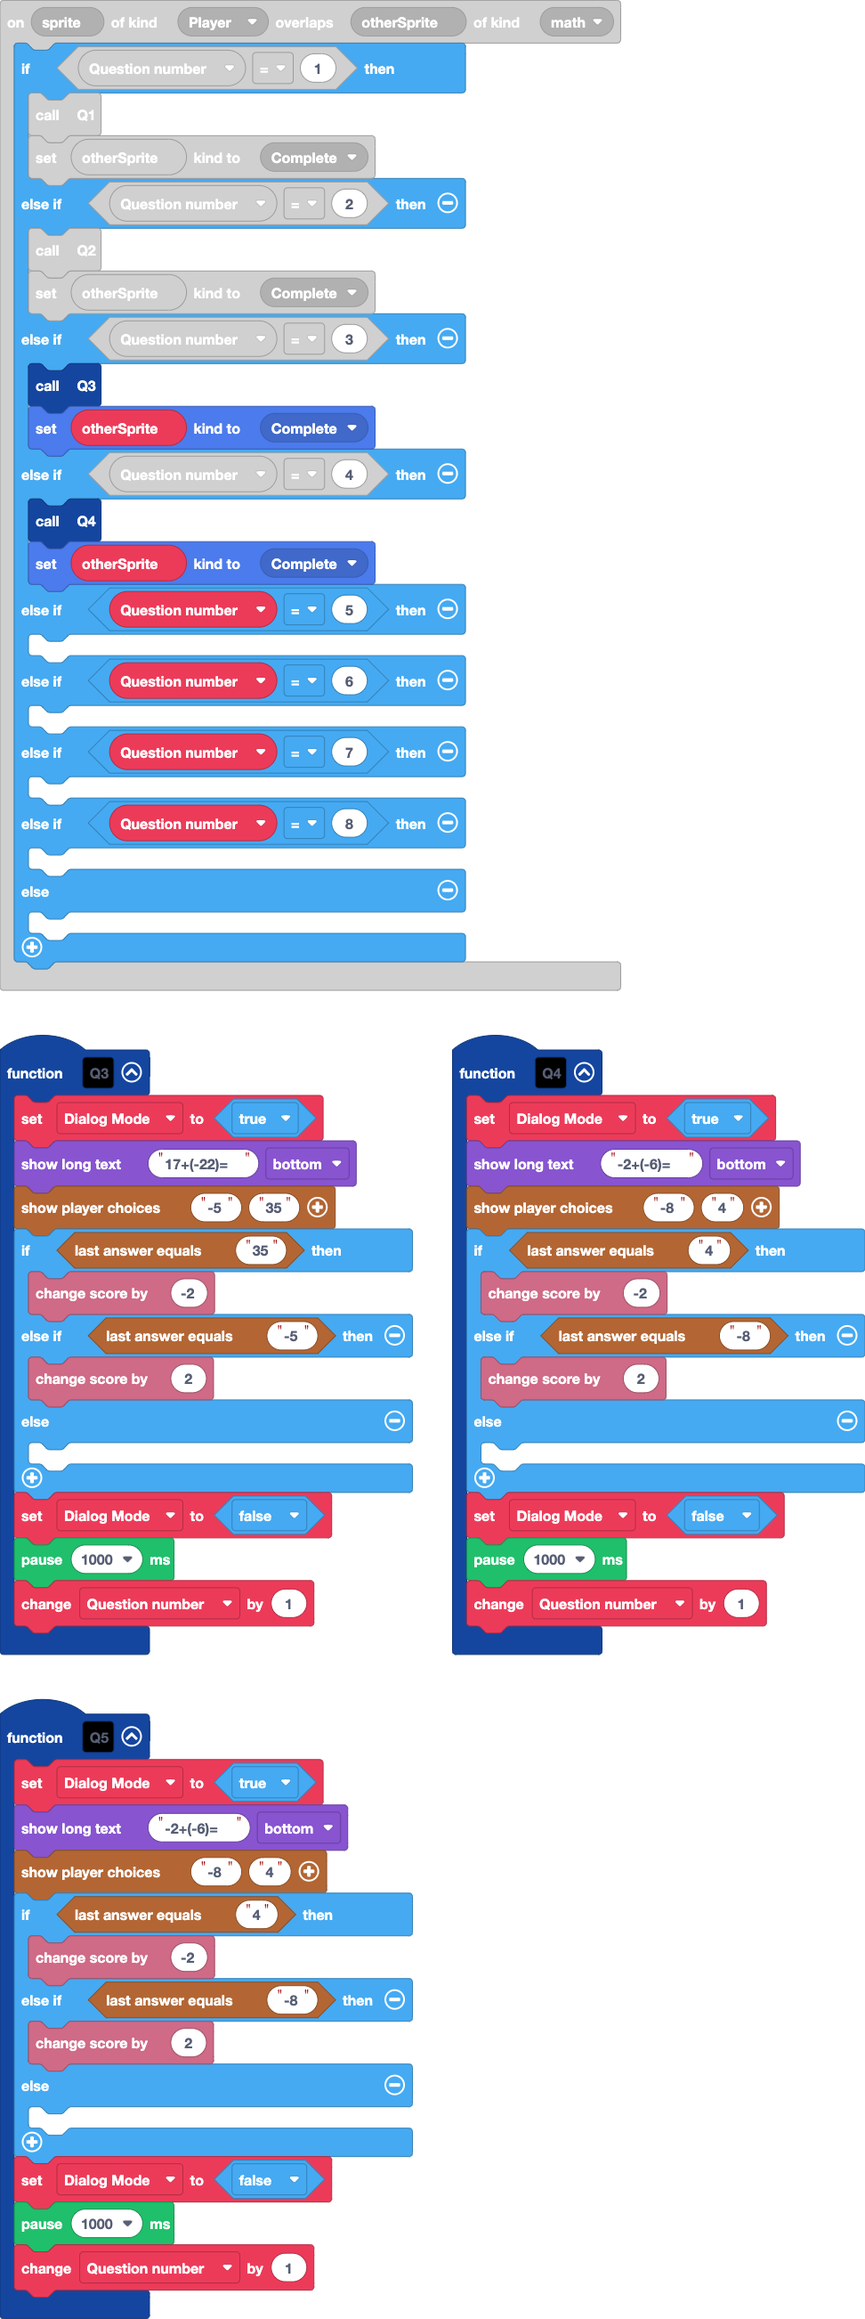
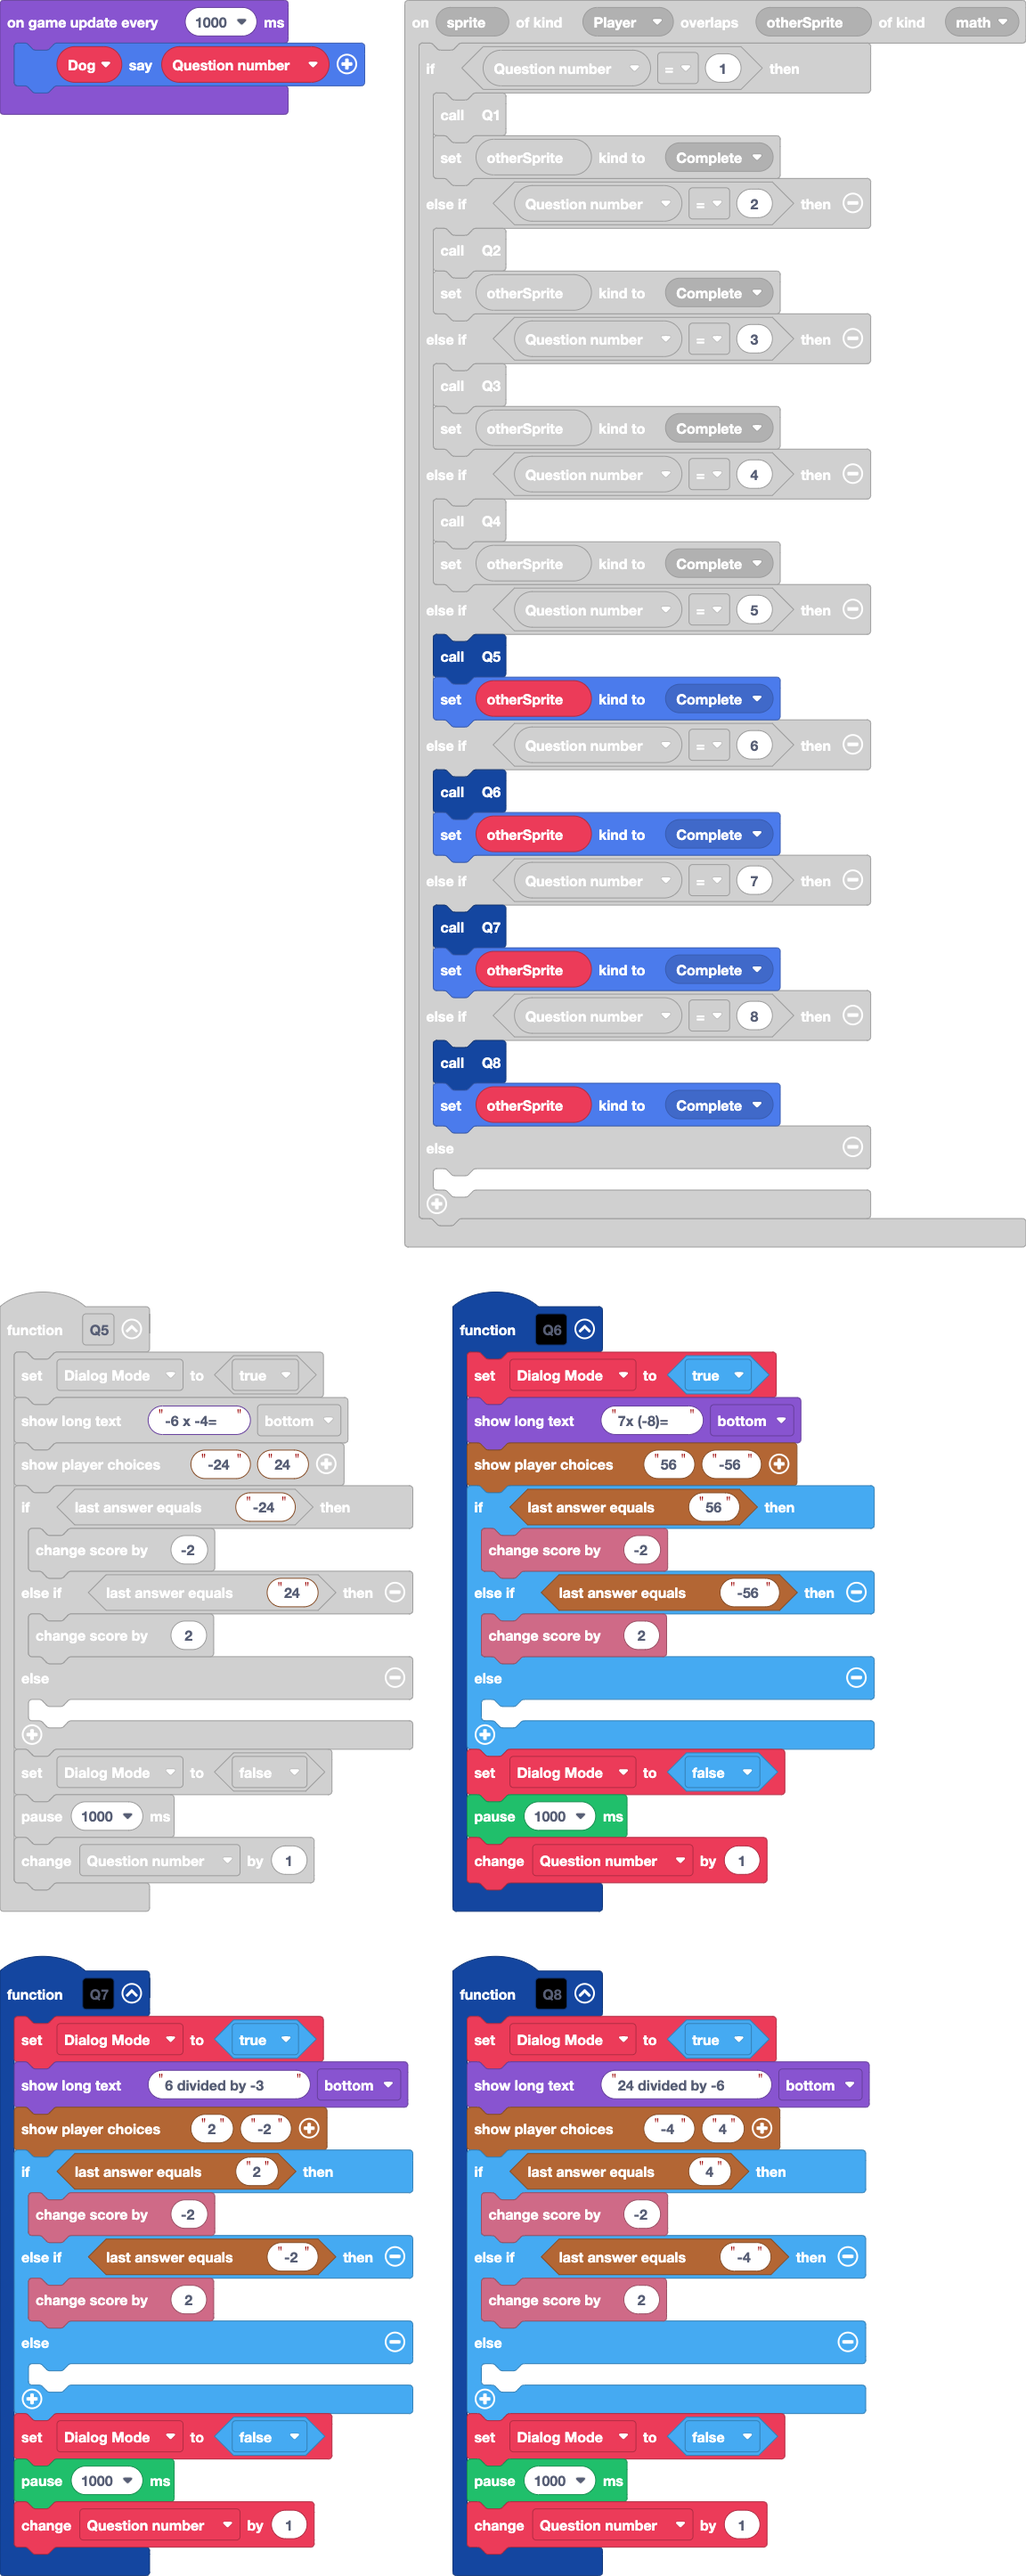
Update main.blocks, main.ts

diff --git a/main.ts b/main.ts
@@ -158,13 +158,28 @@ controller.A.onEvent(ControllerButtonEvent.Pressed, function () {
         Dog.vy = -155
     }
 })
-function Q5 () {
+function Q8 () {
     Dialog_Mode = true
-    game.showLongText("-2+(-6)=", DialogLayout.Bottom)
-    story.showPlayerChoices("-8", "4")
+    game.showLongText("24 divided by -6", DialogLayout.Bottom)
+    story.showPlayerChoices("-4", "4")
     if (story.checkLastAnswer("4")) {
         info.changeScoreBy(-2)
-    } else if (story.checkLastAnswer("-8")) {
+    } else if (story.checkLastAnswer("-4")) {
+        info.changeScoreBy(2)
+    } else {
+    	
+    }
+    Dialog_Mode = false
+    pause(1000)
+    Question_number += 1
+}
+function Q5 () {
+    Dialog_Mode = true
+    game.showLongText("-6 x -4=", DialogLayout.Bottom)
+    story.showPlayerChoices("-24", "24")
+    if (story.checkLastAnswer("-24")) {
+        info.changeScoreBy(-2)
+    } else if (story.checkLastAnswer("24")) {
         info.changeScoreBy(2)
     } else {
     	
@@ -202,17 +217,51 @@ sprites.onOverlap(SpriteKind.Player, SpriteKind.math, function (sprite, otherSpr
         Q4()
         otherSprite.setKind(SpriteKind.Complete)
     } else if (Question_number == 5) {
-    	
+        Q5()
+        otherSprite.setKind(SpriteKind.Complete)
     } else if (Question_number == 6) {
-    	
+        Q6()
+        otherSprite.setKind(SpriteKind.Complete)
     } else if (Question_number == 7) {
-    	
+        Q7()
+        otherSprite.setKind(SpriteKind.Complete)
     } else if (Question_number == 8) {
-    	
+        Q8()
+        otherSprite.setKind(SpriteKind.Complete)
     } else {
     	
     }
 })
+function Q7 () {
+    Dialog_Mode = true
+    game.showLongText("6 divided by -3", DialogLayout.Bottom)
+    story.showPlayerChoices("2", "-2")
+    if (story.checkLastAnswer("2")) {
+        info.changeScoreBy(-2)
+    } else if (story.checkLastAnswer("-2")) {
+        info.changeScoreBy(2)
+    } else {
+    	
+    }
+    Dialog_Mode = false
+    pause(1000)
+    Question_number += 1
+}
+function Q6 () {
+    Dialog_Mode = true
+    game.showLongText("7x (-8)=", DialogLayout.Bottom)
+    story.showPlayerChoices("56", "-56")
+    if (story.checkLastAnswer("56")) {
+        info.changeScoreBy(-2)
+    } else if (story.checkLastAnswer("-56")) {
+        info.changeScoreBy(2)
+    } else {
+    	
+    }
+    Dialog_Mode = false
+    pause(1000)
+    Question_number += 1
+}
 function Q3 () {
     Dialog_Mode = true
     game.showLongText("17+(-22)=", DialogLayout.Bottom)
@@ -788,6 +837,9 @@ game.onUpdate(function () {
     } else {
     	
     }
+})
+game.onUpdateInterval(1000, function () {
+    Dog.sayText(Question_number)
 })
 forever(function () {
     if (Dialog_Mode == false) {
